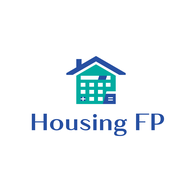
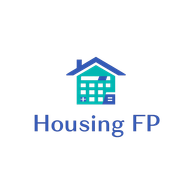
ロゴ全面更新: ヘッダーBase64・アイコン・favicon差し替え
- ヘッダーロゴBase64を新デザインに置換
- icon-192/512, apple-touch-icon, favicon を新PNGに差し替え
- favicon.svg → favicon.png に移行 (sw.js ASSETS更新)
- キャッシュバージョン v112

Changed region(s): [[0.3438, 0.2812, 0.6562, 0.5625], [0.1562, 0.5625, 0.6562, 0.7188], [0.6875, 0.5625, 0.875, 0.6875]]

diff --git a/index.html b/index.html
@@ -14,7 +14,7 @@
 <script src="js/vendors/FileSaver.min.js"></script>
 <link rel="stylesheet" href="css/style.css?v=2">
 <link rel="manifest" href="manifest.json">
-<link rel="icon" type="image/svg+xml" href="favicon.svg">
+<link rel="icon" type="image/png" href="favicon.png">
 <link rel="apple-touch-icon" href="apple-touch-icon.png">
 </head>
 <body>
@@ -54,7 +54,7 @@ if(authExp&&Date.now()<Number(authExp)){
 <!-- ヘッダー -->
 <header class="hdr">
   <div class="hdr-logo">
[2 lines of base64/hex data omitted]
     <span style="font-size:20px;font-weight:700;color:#fff;letter-spacing:.03em;line-height:1">HouseFit</span>
   </div>
   <div class="hdr-acts">

diff --git a/sw.js b/sw.js
@@ -1,5 +1,5 @@
 // Service Worker — PWAインストール用
-const CACHE_NAME = 'cf-app-v111';
+const CACHE_NAME = 'cf-app-v112';
 const ASSETS = [
   './',
   './index.html',
@@ -35,7 +35,7 @@ const ASSETS = [
   './js/vendors/FileSaver.min.js',
   './icon-192.png',
   './icon-512.png',
-  './favicon.svg'
+  './favicon.png'
 ];
 
 // クエリパラメータ(?v=xx)を除去してキャッシュキーを統一
